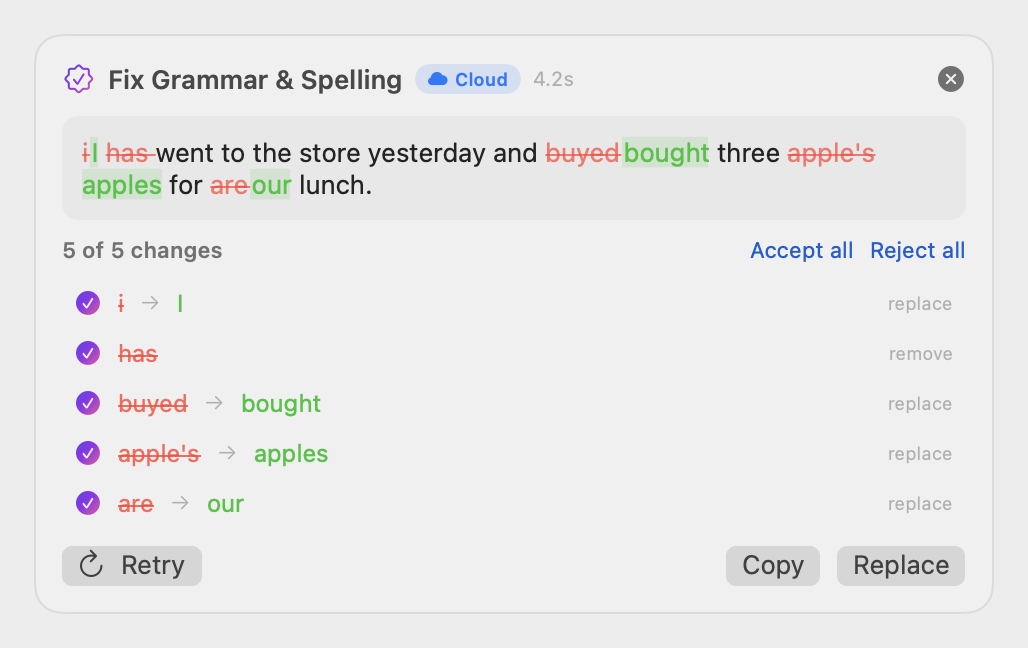
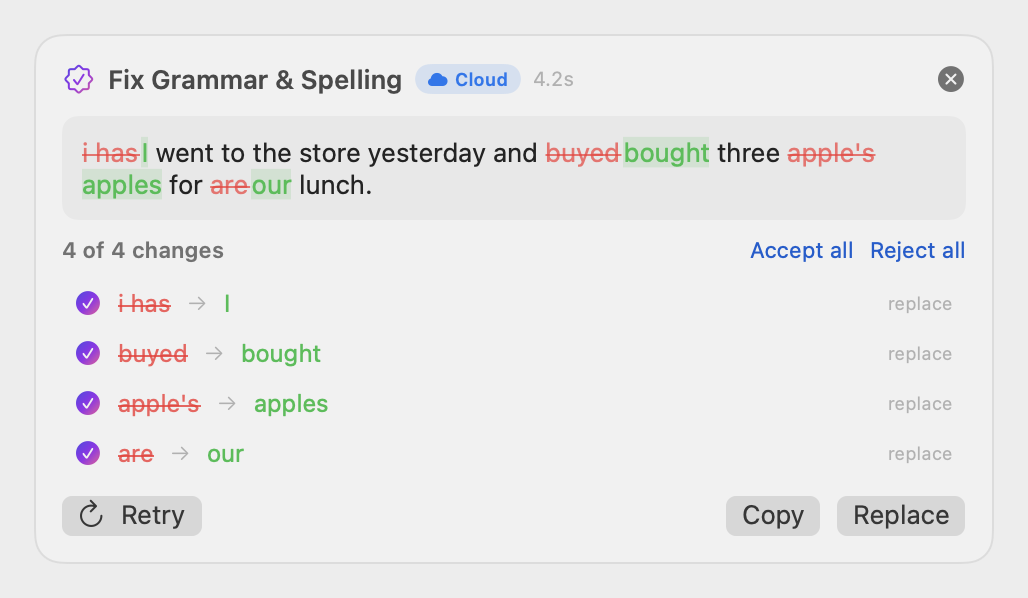
Refresh README screenshots
Screenshots now show the menu without the privacy badge and the new
Free offline AI card. The renderer uses sample backend statuses, so
screenshots never include paths from the machine that made them.

diff --git a/Sources/Grammable/UI/UISnapshot.swift b/Sources/Grammable/UI/UISnapshot.swift
@@ -42,6 +42,15 @@ enum UISnapshot {
             }
         }
 
+        // Sample backend state, so screenshots show the setup flow and never this Mac's paths.
+        var demo: [BackendID: BackendStatus] = [:]
+        for id in BackendID.allCases { demo[id] = .missing("Not found. \(id.setupHint)") }
+        demo[.claude] = .available("/opt/homebrew/bin/claude")
+        demo[.ollama] = .missing("Ollama is running but has no models. Run: ollama pull llama3.2")
+        demo[.builtIn] = .available("Built into macOS · spelling and grammar fixes only")
+        BackendStatusModel.demoStatuses = demo
+        OfflineAISetupModel.demoStage = .noModel
+
         let navigation = SettingsNavigation()
         for tab in [SettingsTab.general, .backends, .presets, .privacy, .about] {
             navigation.tab = tab

diff --git a/Sources/Grammable/UI/SettingsView.swift b/Sources/Grammable/UI/SettingsView.swift
@@ -20,7 +20,11 @@ final class BackendStatusModel: ObservableObject {
     @Published var testResult: [BackendID: String] = [:]
     @Published var testing: Set<BackendID> = []
 
+    /// Sample statuses for screenshots (`--render-ui`), so they never show this Mac's paths.
+    static var demoStatuses: [BackendID: BackendStatus]?
+
     func refresh() {
+        if let demo = Self.demoStatuses { statuses = demo; return }
         isRefreshing = true
         ShellEnvironment.shared.reset()
         let config = AppSettings.shared.backendConfiguration

diff --git a/Sources/Grammable/UI/OfflineAISetup.swift b/Sources/Grammable/UI/OfflineAISetup.swift
@@ -30,7 +30,11 @@ final class OfflineAISetupModel: ObservableObject {
 
     /// Re-checks Ollama. Called on appear and every few seconds while the AI Backends tab is open,
     /// so installing or opening Ollama in another window updates this card on its own.
+    /// Fixed stage for screenshots (`--render-ui`).
+    static var demoStage: Stage?
+
     func refresh() {
+        if let demo = Self.demoStage { stage = demo; return }
         guard !isDownloading else { return }
         let url = settings.ollamaURL
         Task {
